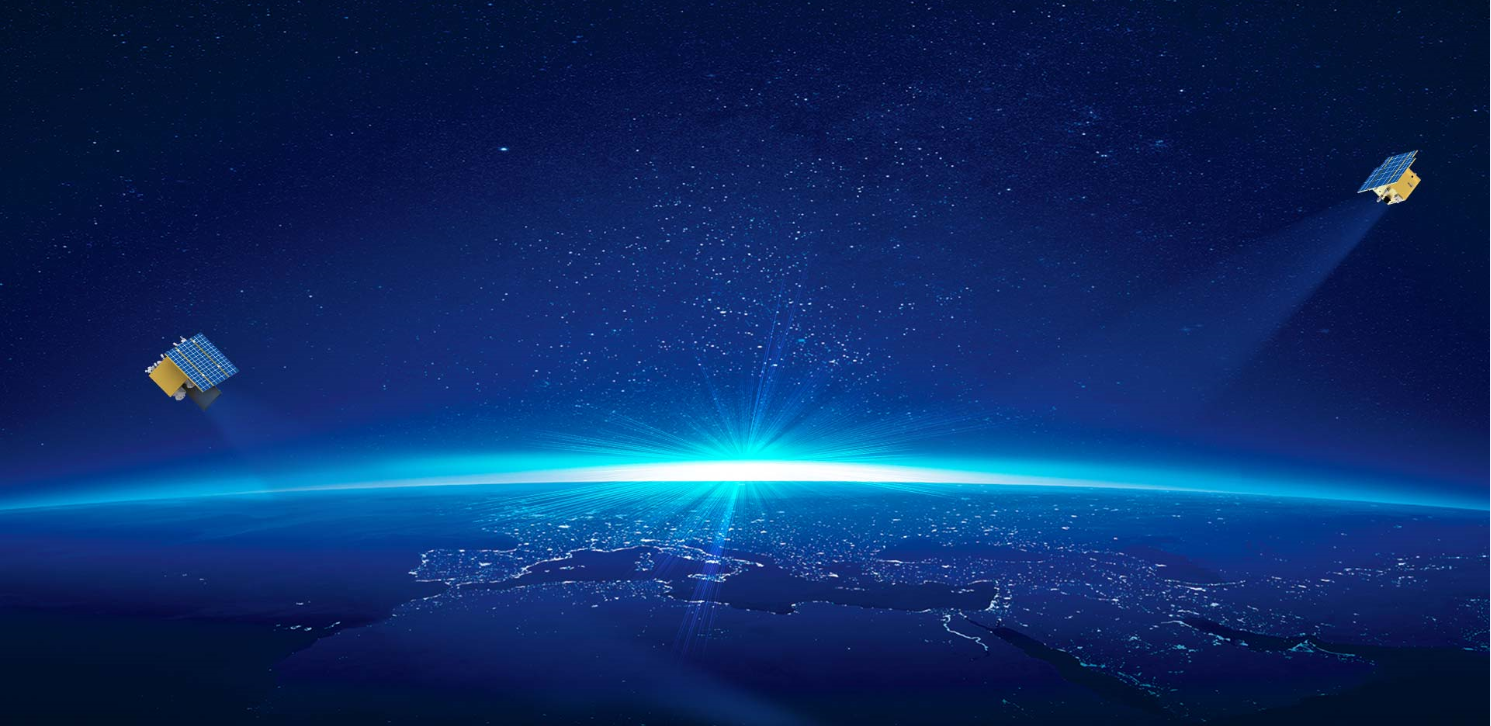
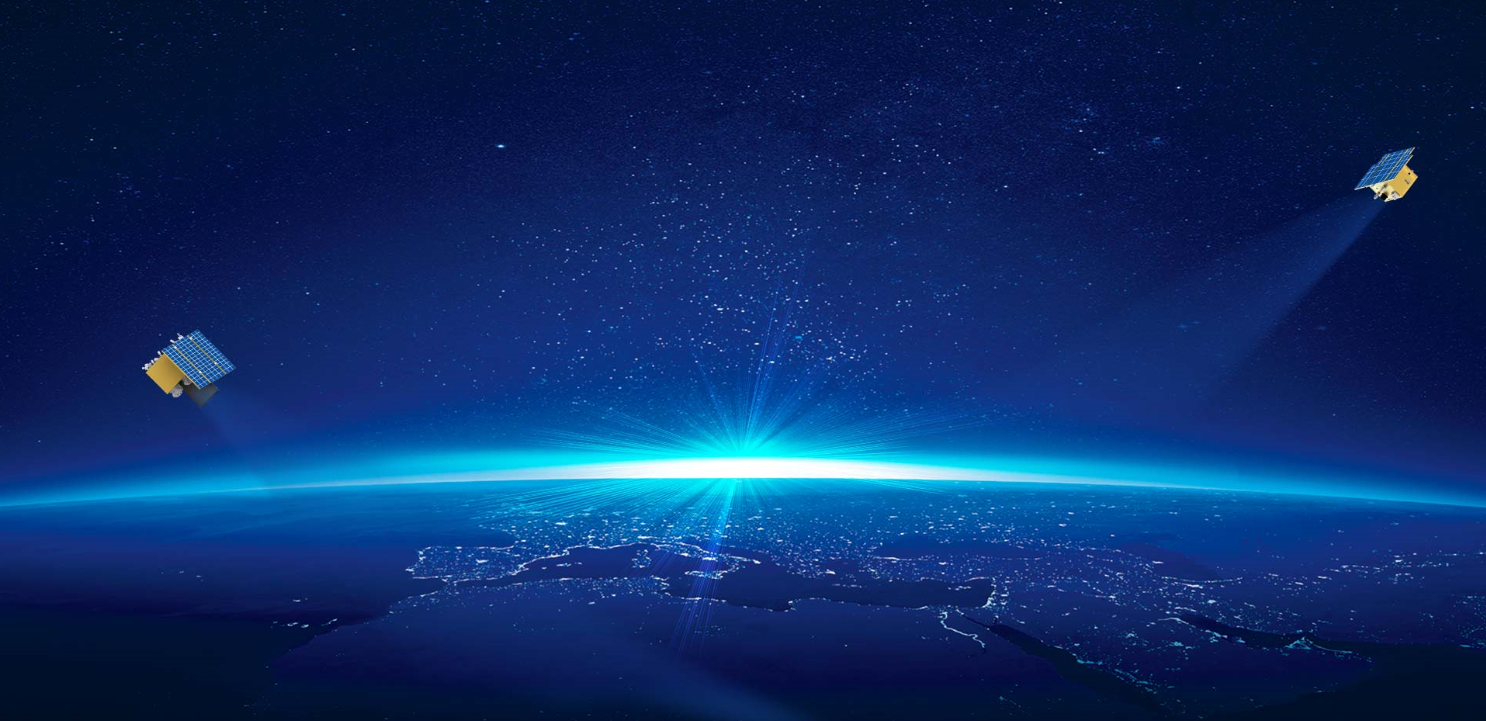
登录背景图滚动

diff --git a/src/main/webapp/WEB-INF/views/pub/login/login.html b/src/main/webapp/WEB-INF/views/pub/login/login.html
@@ -22,6 +22,51 @@
 <link rel="stylesheet" type="text/css"
 	href="#(path)/static/pub/login/css/login.css" />
 
+<!-- 背景图滚动 -->
+<style type="text/css">
+@-webkit-keyframes animate-cloud {
+  from {
+    background-position: 1700px 100%;
+  }
+  to {
+    background-position: 0 100%;
+  }
+}
+@-moz-keyframes animate-cloud {
+  from {
+    background-position: 1700px 100%;
+  }
+  to {
+    background-position: 0 100%;
+  }
+}
+@-ms-keyframes animate-cloud {
+  from {
+    background-position: 1700px 100%;
+  }
+  to {
+    background-position: 0 100%;
+  }
+}
+@-o-keyframes animate-cloud {
+  from {
+    background-position: 1700px 100%;
+  }
+  to {
+    background-position: 0 100%;
+  }
+}
+
+body{
+  -webkit-animation: animate-cloud 30s linear infinite;
+  -moz-animation: animate-cloud 30s linear infinite;
+  -ms-animation: animate-cloud 30s linear infinite;
+  -o-animation: animate-cloud 30s linear infinite;
+  animation: animate-cloud 30s linear infinite;
+  width: 100%;
+  height: auto;
+}
+</style>
 
 </head>
 <body onkeypress="_loginKeyPress(event);"
